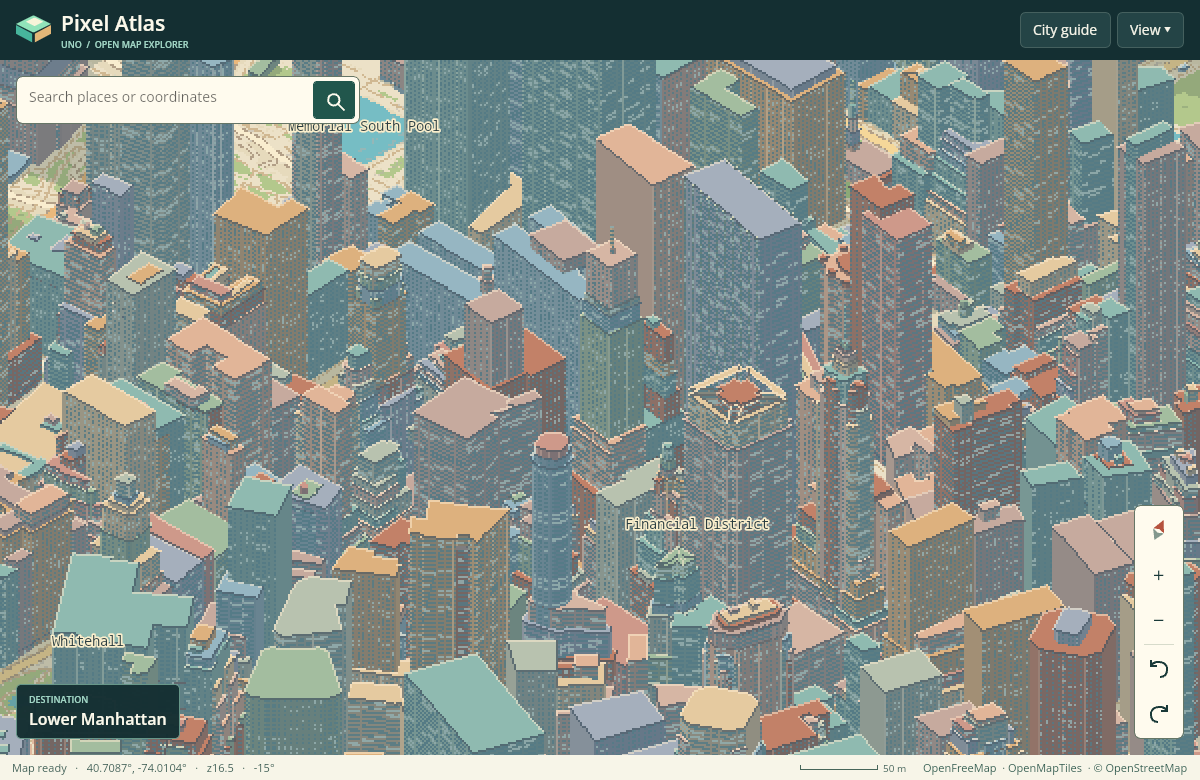
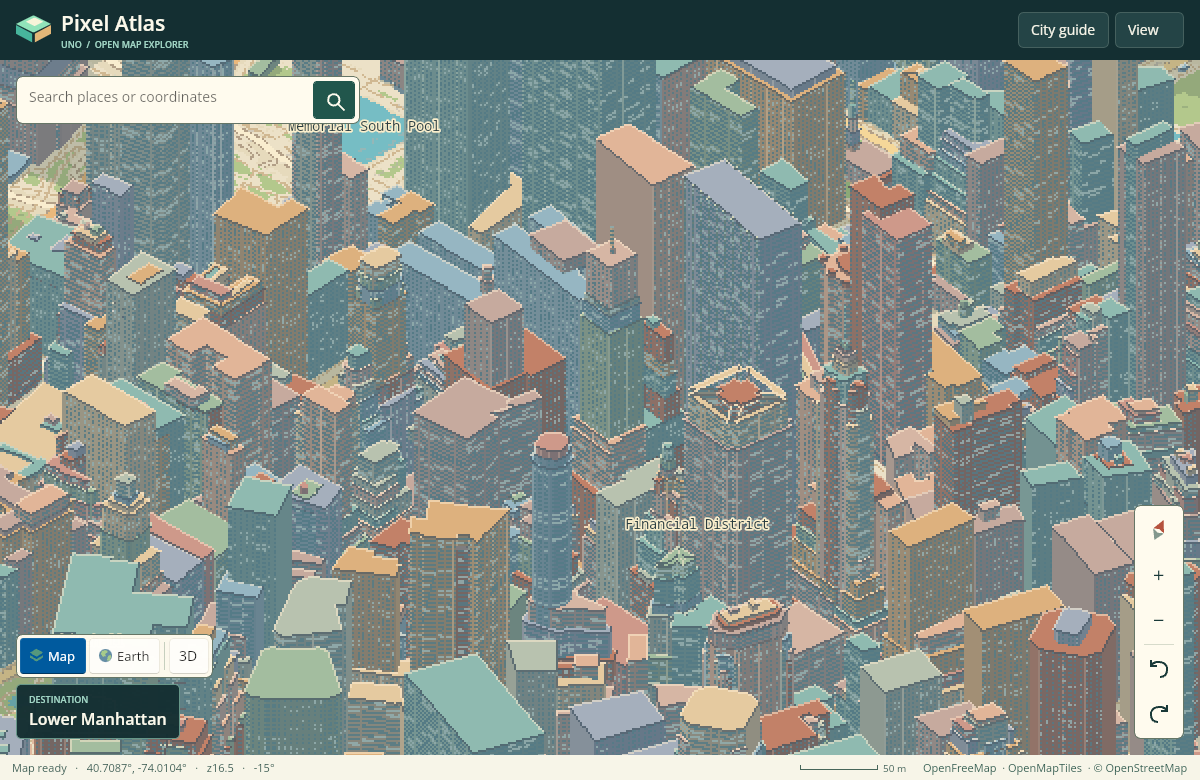
Document the Earth raster algorithm and verified browser views

Changed region(s): [[0.0, 0.8, 0.185, 0.8923], [0.8633, 0.0308, 0.9867, 0.0615]]

diff --git a/README.md b/README.md
@@ -1,6 +1,6 @@
 # UnoPixelMap · Pixel Atlas
 
-[Explore the live map](https://wieslawsoltes.github.io/UnoPixelMap/)
+[Explore the live map](https://wieslawsoltes.github.io/UnoPixelMap/) · [Earth in 3D](https://wieslawsoltes.github.io/UnoPixelMap/#v2/40.704100/-74.016300/15.750/-18.00/55.00/Day/Earth) · [Earth in 2D](https://wieslawsoltes.github.io/UnoPixelMap/#v2/40.704100/-74.016300/15.750/-18.00/0.00/Day/Earth)
 
 Pixel Atlas is an interactive Uno Platform map control for the browser. It streams worldwide vector tiles and turns building footprints, height and minimum-height attributes into explorable isometric pixel art. A world overview and the opening Lower Manhattan neighborhood are bundled with the app.
 
@@ -13,6 +13,18 @@ Pixel Atlas is an interactive Uno Platform map control for the browser. It strea
 Drag to pan, scroll or pinch to zoom, and right-drag to orbit and tilt. Double-click to zoom at the pointer. Click a roof, façade, street or park to inspect it. Use Map or Earth to choose the ground layer, then choose 2D or 3D independently. Earth transforms natural-color satellite imagery into pixel art and keeps map labels and buildings in the same coordinate system. The View menu selects the Day, Dusk or Night palette. Share a view to preserve its exact camera and lighting.
 
 Search by place name, address or decimal latitude and longitude. The city guide includes Lower Manhattan, Kraków, Shibuya, Barcelona, Paris and Singapore. With the map focused, use the arrow keys to pan, +/− to zoom, Q/E to rotate, P to switch projection, Home to return to Manhattan and Escape to clear a marker.
+
+## How Earth becomes pixel art
+
+| Earth in 3D | Earth in 2D |
+| --- | --- |
+| ![Isometric Earth at Battery Park with extruded buildings](docs/earth-isometric.png) | ![The same Battery Park waterfront in overhead Earth mode](docs/earth-overhead.png) |
+
+The renderer decodes each satellite tile once. It averages colors in linear light, merging low-contrast 2×2 areas while retaining individual high-contrast samples along shorelines and field boundaries. It selects neighboring colors from an 89-color palette in OKLab and applies a world-aligned 4×4 ordered dither. Panning or rotating leaves that pattern attached to the ground.
+
+Zoom levels 13 and 14 preserve the full 256×256 source grid. Lower zoom levels use 128×128 art tiles. A 24 MiB LRU holds processed textures. In overhead view, translucent building footprints preserve the imagery underneath. Tilting into the isometric projection reveals the extruded walls.
+
+[Explore Lake Garda in Earth mode](https://wieslawsoltes.github.io/UnoPixelMap/#v2/45.687000/10.737000/13.000/30.00/55.00/Day/Earth) · [View the Lake Garda browser capture](docs/earth-lake-garda.png) · [See Earth on a phone-sized viewport](docs/earth-phone.png)
 
 ## Reuse the control
 
